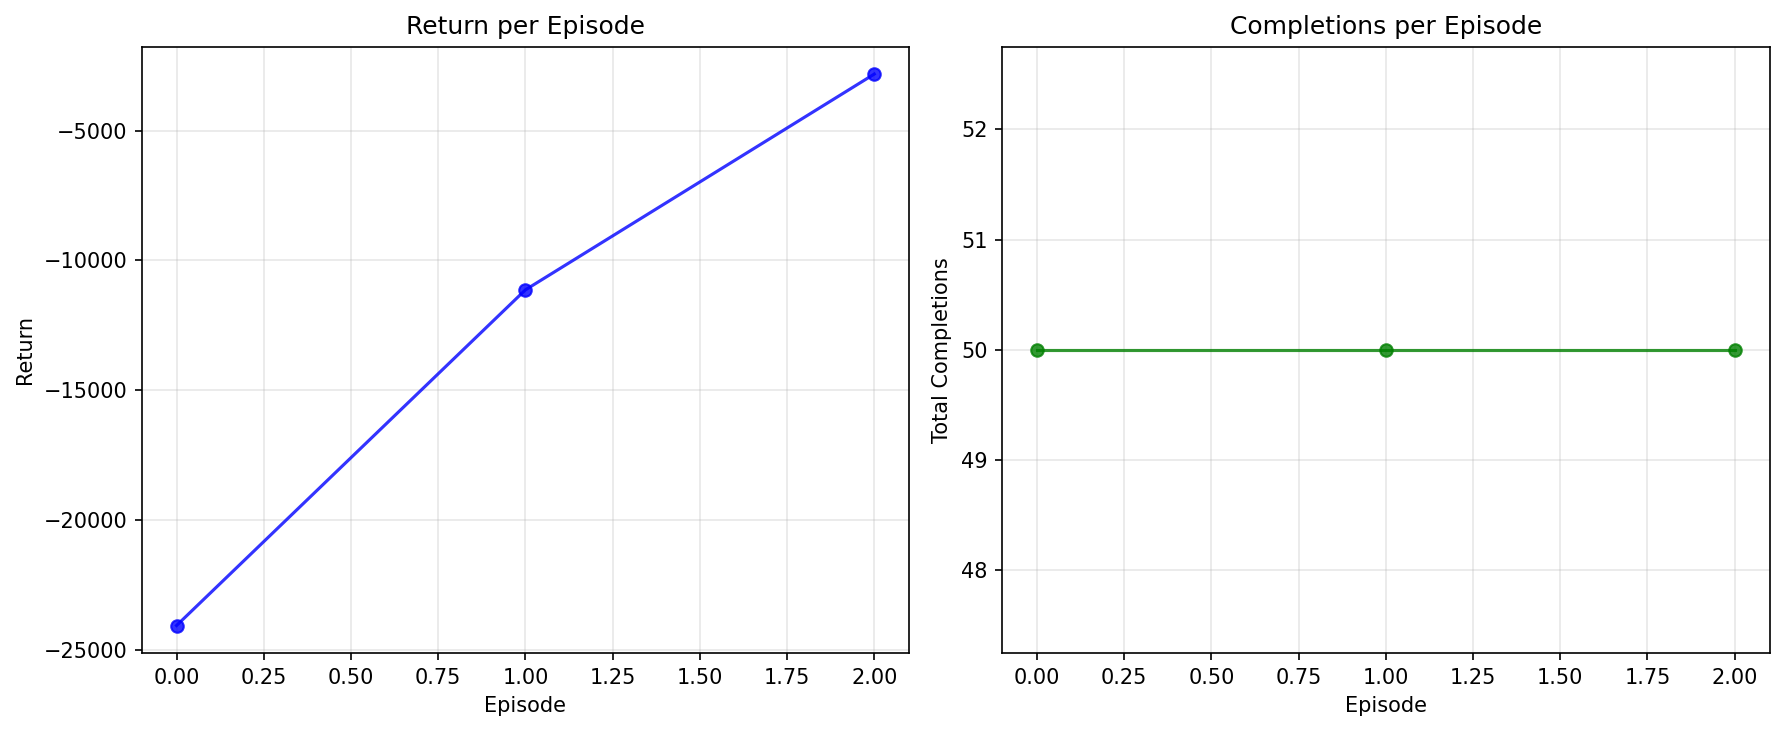
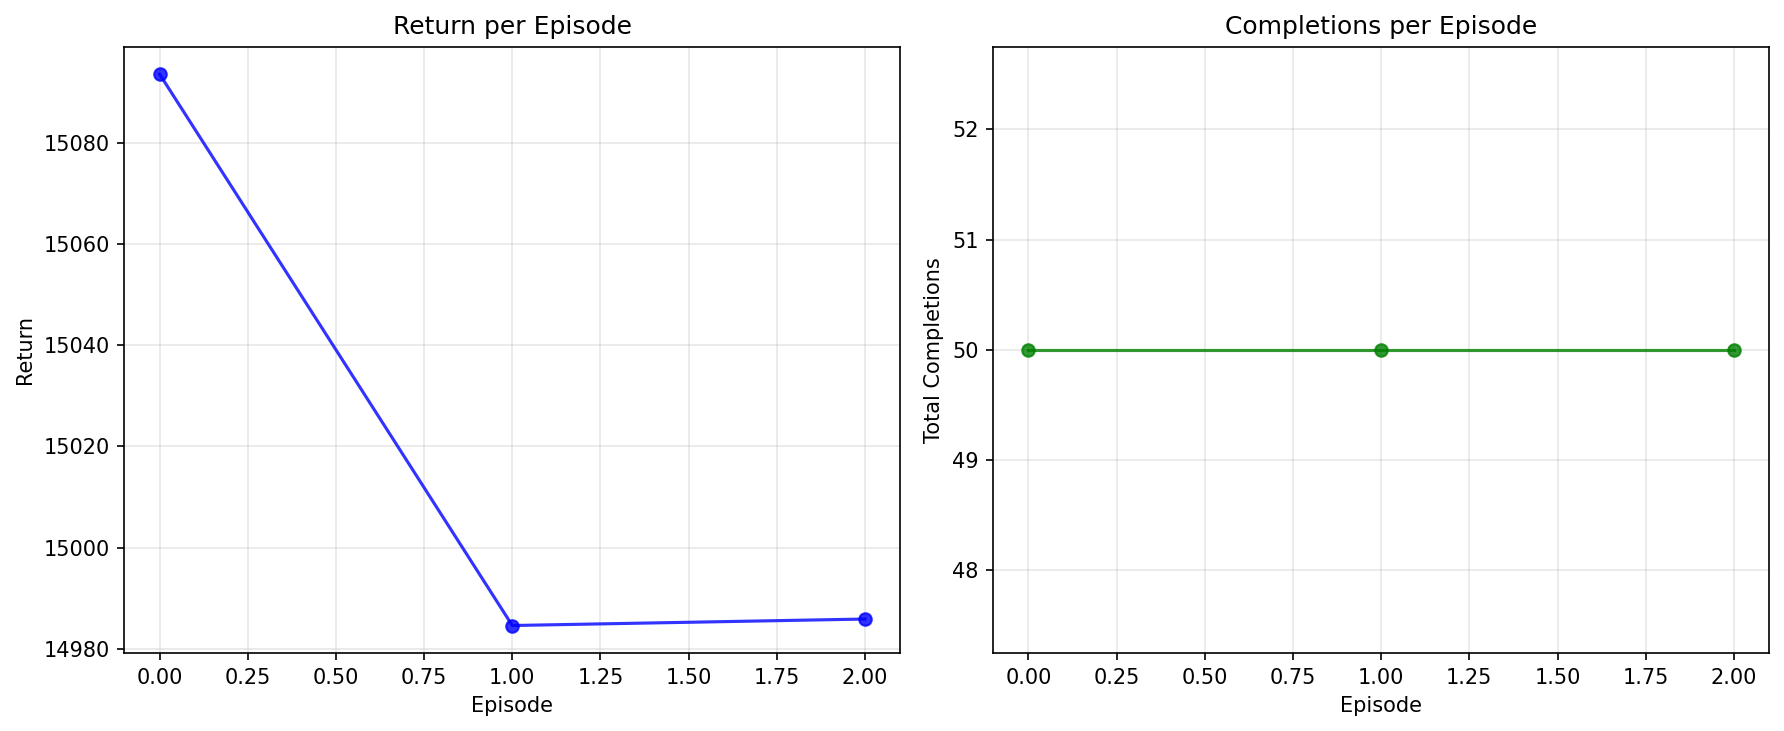
Solved the early termination, changed to correct names

diff --git a/examples/Marl_dyn_train.py b/examples/Marl_dyn_train.py
@@ -475,7 +475,7 @@ def parse_args():
 
     # PPO
     p.add_argument("--lr", type=float, default=3e-4)
-    p.add_argument("--n-steps", type=int, default=2048)
+    p.add_argument("--n-steps", type=int, default=409600)
     p.add_argument("--batch-size", type=int, default=64)
     p.add_argument("--n-epochs", type=int, default=10)
     p.add_argument("--gamma", type=float, default=0.99)
@@ -486,8 +486,8 @@ def parse_args():
     p.add_argument("--max-grad-norm", type=float, default=0.5)
 
     # Env
-    p.add_argument("--num-drones", type=int, default=4)
-    p.add_argument("--num-waypoints", type=int, default=20)
+    p.add_argument("--num-drones", type=int, default=5)
+    p.add_argument("--num-waypoints", type=int, default=200)
     p.add_argument("--episode-len", type=int, default=3000)
     p.add_argument("--waypoint-radius", type=float, default=0.5)
     p.add_argument("--waypoint-hold-steps", type=int, default=5)
